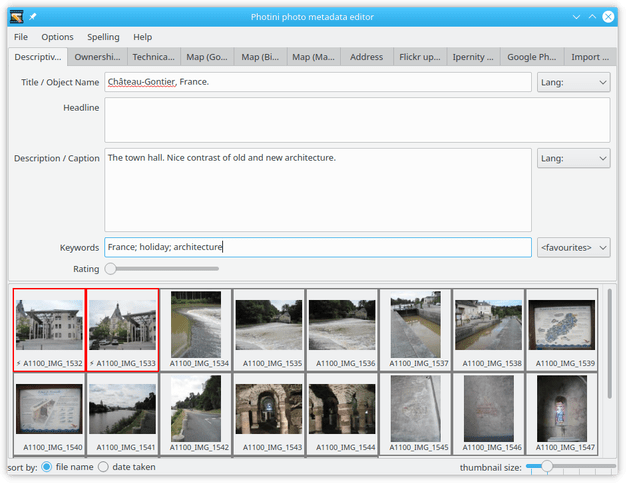
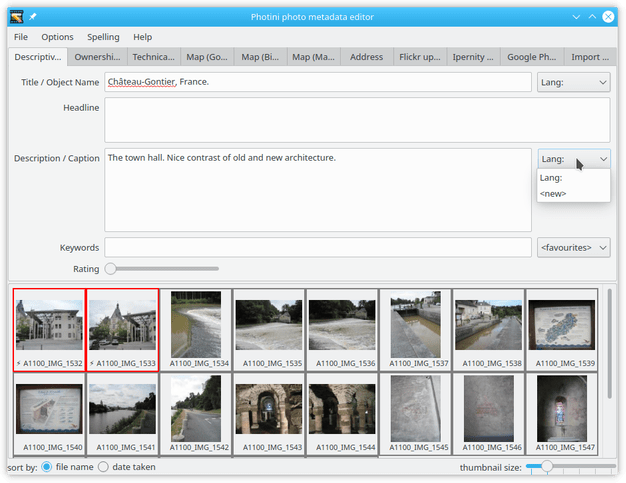
Update documentation of LangAlt fields

Changed region(s): [[0.1518, 0.4969, 0.8498, 0.559], [0.8498, 0.2795, 0.9712, 0.4348], [0.9712, 0.3727, 1.0, 0.4037]]

diff --git a/src/photini/__init__.py b/src/photini/__init__.py
@@ -1,4 +1,4 @@
 """Full documentation is at https://photini.readthedocs.io/"""
 
 __version__ = '2022.4.0'
-build = '2131 (f8e5b8c)'
+build = '2132 (00e9756)'

diff --git a/src/doc/manual/descriptive_metadata.rst b/src/doc/manual/descriptive_metadata.rst
@@ -46,46 +46,61 @@ There are probably only one or two photographs that share the same description, 
 
 .. image:: ../images/screenshot_024.png
 
-The title and description are stored in XMP as ``Lang Alt`` data.
-This allows translations into alternative languages to be stored along with the default language text.
-(Only the default language is stored in Exif and IPTC-IIM.)
-
-You can add an alternative language by clicking on the ``Lang:`` dropdown and selecting ``<new>``.
-
-.. image:: ../images/screenshot_025.png
-
-This opens a dialog box for you to type in the RFC3066_ code, e.g. ``fr-FR`` for French as spoken in France.
-
-.. image:: ../images/screenshot_026.png
-
-You can then type the translation in to the text field.
-
-.. image:: ../images/screenshot_027.png
-
 If you select a group of images you may see ``<multiple values>`` displayed in some of the text boxes.
 You can right-click on the box to bring up a context menu from which you can choose a value to be copied to all the selected photographs.
 Very long texts are elided with ``...`` replacing some of the text.
 
-.. image:: ../images/screenshot_028.png
+.. image:: ../images/screenshot_025.png
 
 Next you can set a list of keywords for the image by typing them in the ``Keywords`` box.
 Keywords should be separated by semi-colon (;) characters.
 The ``<favourites>`` drop-down list can be used to select keywords from the ones you use most often.
 
-.. image:: ../images/screenshot_029.png
+.. image:: ../images/screenshot_026.png
 
 Finally the ``Rating`` slider allows you to note any particularly good or bad pictures.
 Good pictures can be given a one to five star rating.
 
-.. image:: ../images/screenshot_030.png
+.. image:: ../images/screenshot_027.png
 
 Bad pictures can be given a ``reject`` rating.
 This is stored in the metadata as a rating value of -1.
 
+.. image:: ../images/screenshot_028.png
+
+.. _alternative-languages:
+
+Alternative Languages
+---------------------
+
+Some fields, such as title and description, are stored in XMP as ``Lang Alt`` data.
+This allows translations into alternative languages to be stored along with the default language text.
+(Only the default language is stored in Exif and IPTC-IIM.)
+
+You can add an alternative language by clicking on the ``Lang:`` dropdown and selecting ``<new>``.
+
+.. image:: ../images/screenshot_029.png
+
+If there is already some text in an unspecified default language you will be asked to say what that language is.
+Languages are specified with an RFC3066_ code.
+This usually starts with a two-letter language code, e.g. ``en`` for English, and may be followed by a hyphen and a two-letter country code, e.g. ``en-GB`` for English as spoken in Great Britain.
+
+.. image:: ../images/screenshot_030.png
+
+Next you can set the language to be added, e.g. ``fr-FR`` for French as spoken in France.
+
 .. image:: ../images/screenshot_031.png
 
+You can then type the translation in to the text field.
+
+.. image:: ../images/screenshot_032.png
+
+If you would like to change the default language, right-click on the ``Lang:`` dropdown and choose a language.
+
+.. image:: ../images/screenshot_033.png
+
 More information about the data fields
-^^^^^^^^^^^^^^^^^^^^^^^^^^^^^^^^^^^^^^
+--------------------------------------
 
 Click on any field name below to see the IPTC definition and user notes for that field.
 Although these fields are defined in an `IPTC standard`_, they are all stored in XMP metadata.

diff --git a/src/doc/manual/ownership_metadata.rst b/src/doc/manual/ownership_metadata.rst
@@ -17,6 +17,7 @@ Otherwise use the ``Edit template`` button to open the dialog shown below.
 
 Fill in any of the fields you want to use on every photograph.
 The field labels are copied from the `IPTC standard`_, as is the help text which should pop up if you hover your mouse over a field.
+Note that the ``Copyright Notice`` and ``Rights: Usage Terms`` fields can have alternative languages, as discussed in :ref:`alternative-languages`.
 
 .. image:: ../images/screenshot_202.png
 
@@ -40,7 +41,7 @@ If you want to clear any of the images' existing ownership data when the templat
 You can then add more information, or edit the existing information, in the usual way.
 
 More information about the data fields
-^^^^^^^^^^^^^^^^^^^^^^^^^^^^^^^^^^^^^^
+--------------------------------------
 
 Click on any field name below to see the IPTC definition and user notes for that field.
 Although these fields are defined in an `IPTC standard`_, they are all stored in XMP metadata.
@@ -49,7 +50,6 @@ Some of them are also stored in "legacy" IPTC-IIM data.
 `Creator <http://www.iptc.org/std/photometadata/specification/IPTC-PhotoMetadata#creator>`_
   Usually the photographer's name.
   If there is more than one creator, separate them with a ``;`` character.
-  This shows the same information as the :doc:`descriptive_metadata` ``Creator / Artist`` field.
 `Creator's Jobtitle <http://www.iptc.org/std/photometadata/specification/IPTC-PhotoMetadata#creators-jobtitle>`_
   Job title of the first creator.
   Do not fill in this field unless the creator field is filled in.
@@ -57,7 +57,6 @@ Some of them are also stored in "legacy" IPTC-IIM data.
   Usually the photographer's name, but could be their employer or client.
 `Copyright Notice <http://www.iptc.org/std/photometadata/specification/IPTC-PhotoMetadata#copyright-notice>`_
   Who owns the copyright.
-  This shows the same information as the :doc:`descriptive_metadata` ``Copyright`` field.
 `Rights: Usage Terms <http://www.iptc.org/std/photometadata/specification/IPTC-PhotoMetadata#rights-usage-terms>`_
   Plain text summary of how the image may be reused.
   Not stored in IPTC-IIM.
